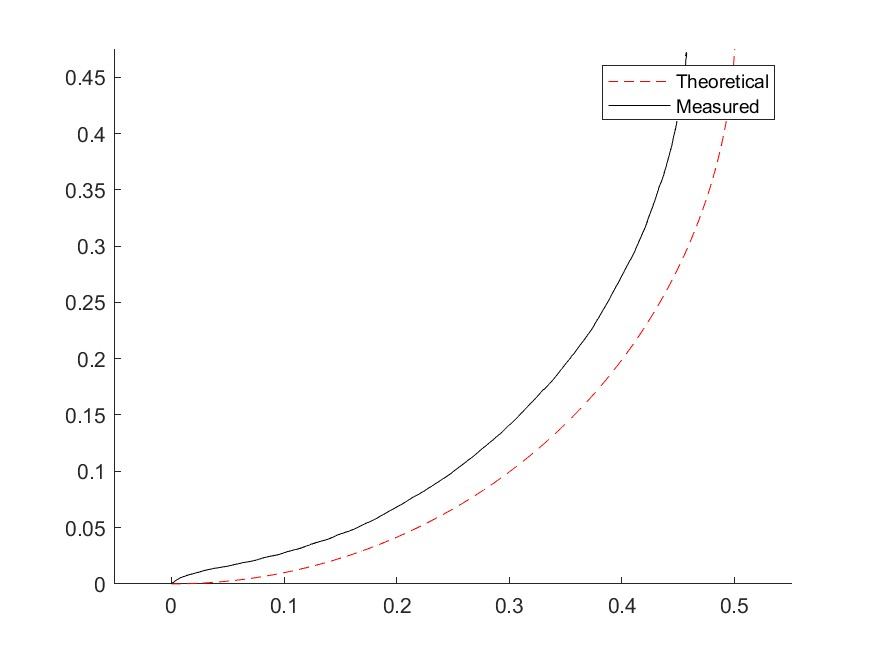
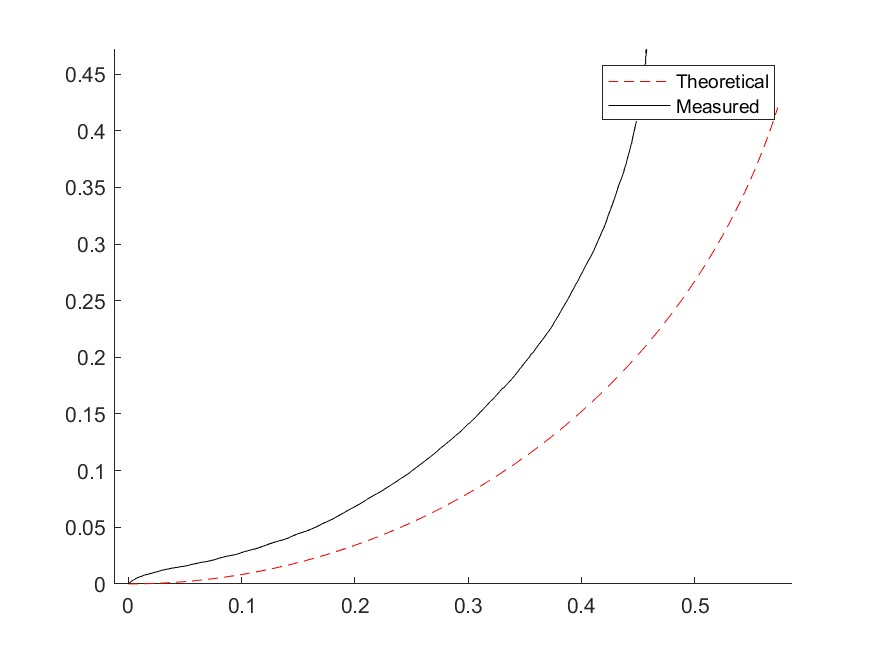
Report version

diff --git a/Lab4/01-wall-follower/main_3.m b/Lab4/01-wall-follower/main_3.m
@@ -2,38 +2,47 @@ clc; close all; format compact;
 
 addpath('../rc-labs/rc-matlab-lib');
 
+% Only need to run once, just don't clearvars
 %RC = RCCar();
 
+% Put the robot at the origin, clear map
 resetMap(RC);
 
 %Second dimension is left and right
-Waypoint = [.5 0];
+Waypoint = [.5 0]; % m
 
-threshold = .05;
+% How close the robot needs to be to the waypoint to be considered
+% succcessful
+threshold = .05; % m
 
+% Initially, the robot is stopped with no steering angle
 RC.setSteeringAngle(0);
 RC.setSpeed(0);
 
+% while the robot isn't close enough, get closer to it
 while sqrt((Waypoint(1) - RC.X)^2 + (Waypoint(2) - RC.Y)^2) > threshold
 
     phi = RC.Phi;
-
+    
+    % finding WP coords in the robot frame
     RotMatrix = [cos(phi) sin(phi); -sin(phi) cos(phi)];
-
     local = RotMatrix * [(Waypoint(1) - RC.X); (Waypoint(2) -RC.Y)];
-
+    
+    % Turn radius calculations
     l_squared = local(1)^2 + local(2)^2;
-
     radius = l_squared / (2 * local(2));
 
+    % Angle from the robot x axis to the WP
     localPhi = atan2(local(2), local(1));
-
-    gamma = radius * (.25/.715);
+    
+    % Experimentally determined relationship between gamma and radius
+    gamma = radius * (.25/.715); 
 
     % If it needs to steer too hard, back up a bit to make the turn less
     % brutal
-    localPhi * 180/pi
-
+    
+    % if the waypoint is outside of a 'cone' in front of the robot, back up
+    % in a straight line
     if localPhi < -pi/4
         RC.setSpeed(-.25);
         RC.setSteeringAngle(0)
@@ -45,6 +54,8 @@ while sqrt((Waypoint(1) - RC.X)^2 + (Waypoint(2) - RC.Y)^2) > threshold
         RC.setSteeringAngle(gamma)
     end
 
+    % Making sure steering angle doesn't get too large (past physical
+    % limitation)
     if gamma > .25
         RC.setSteeringAngle(.25);
 
@@ -52,25 +63,11 @@ while sqrt((Waypoint(1) - RC.X)^2 + (Waypoint(2) - RC.Y)^2) > threshold
         RC.setSteeringAngle(-.25);
     end
 
-    % if gamma > .25
-    %     RC.setSteeringAngle(-.25)
-    %     RC.setSpeed(-.25);
-    % elseif gamma < -.25
-    %     RC.setSteeringAngle(.25)
-    %     RC.setSpeed(.25);
-    % else
-    %     RC.setSpeed(.25);
-    %     RC.setSteeringAngle(gamma);
-    % end
-    %
-    % if local(1) > 0
-    %     gamma = -gamma;
-    % end
-
     pause(.05);
 
 end
 
+% Turn the robot 'off'
 RC.setSteeringAngle(0);
 RC.setSpeed(0);
 

diff --git a/Lab2/errorPlotting.m b/Lab2/errorPlotting.m
@@ -134,7 +134,7 @@ AngVel= v/circle_radius;
 
 
 for i = 2:(endIndex - startIndex)
-     x_vals(i) = x_vals(i-1) + v*cos(phi(i-1))*dt;
+    x_vals(i) = x_vals(i-1) + v*cos(phi(i-1))*dt;
     z_vals(i) = z_vals(i-1) + v*sin(phi(i-1))*dt;
     phi(i) = phi(i-1) + AngVel*dt;
 end
@@ -179,7 +179,7 @@ plot(CWRobot.MobRobZ)
 startIndex = 257;
 endIndex = 490;
 
-circle_radius = .25;
+circle_radius = .3;
 
 x_vals=0;
 z_vals=0;
@@ -188,7 +188,7 @@ AngVel= v/circle_radius;
 
 
 for i = 2:(endIndex - startIndex)
-     x_vals(i) = x_vals(i-1) + v*cos(phi(i-1))*dt;
+    x_vals(i) = x_vals(i-1) + v*cos(phi(i-1))*dt;
     z_vals(i) = z_vals(i-1) + v*sin(phi(i-1))*dt;
     phi(i) = phi(i-1) - AngVel*dt;
 end
